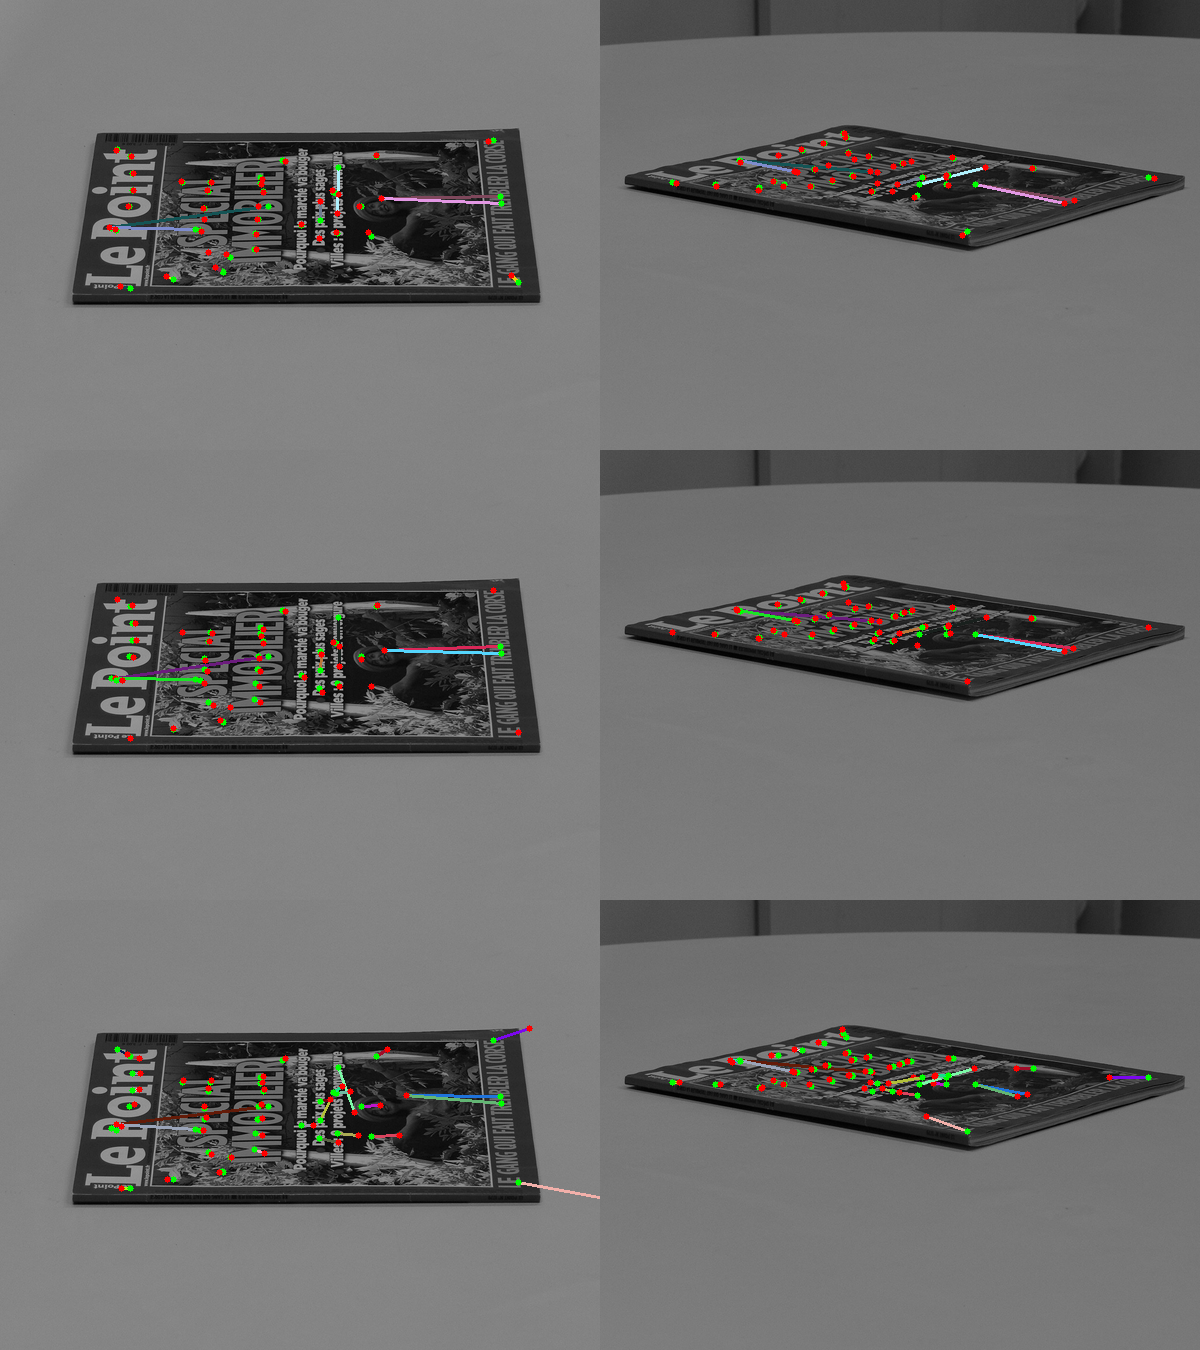
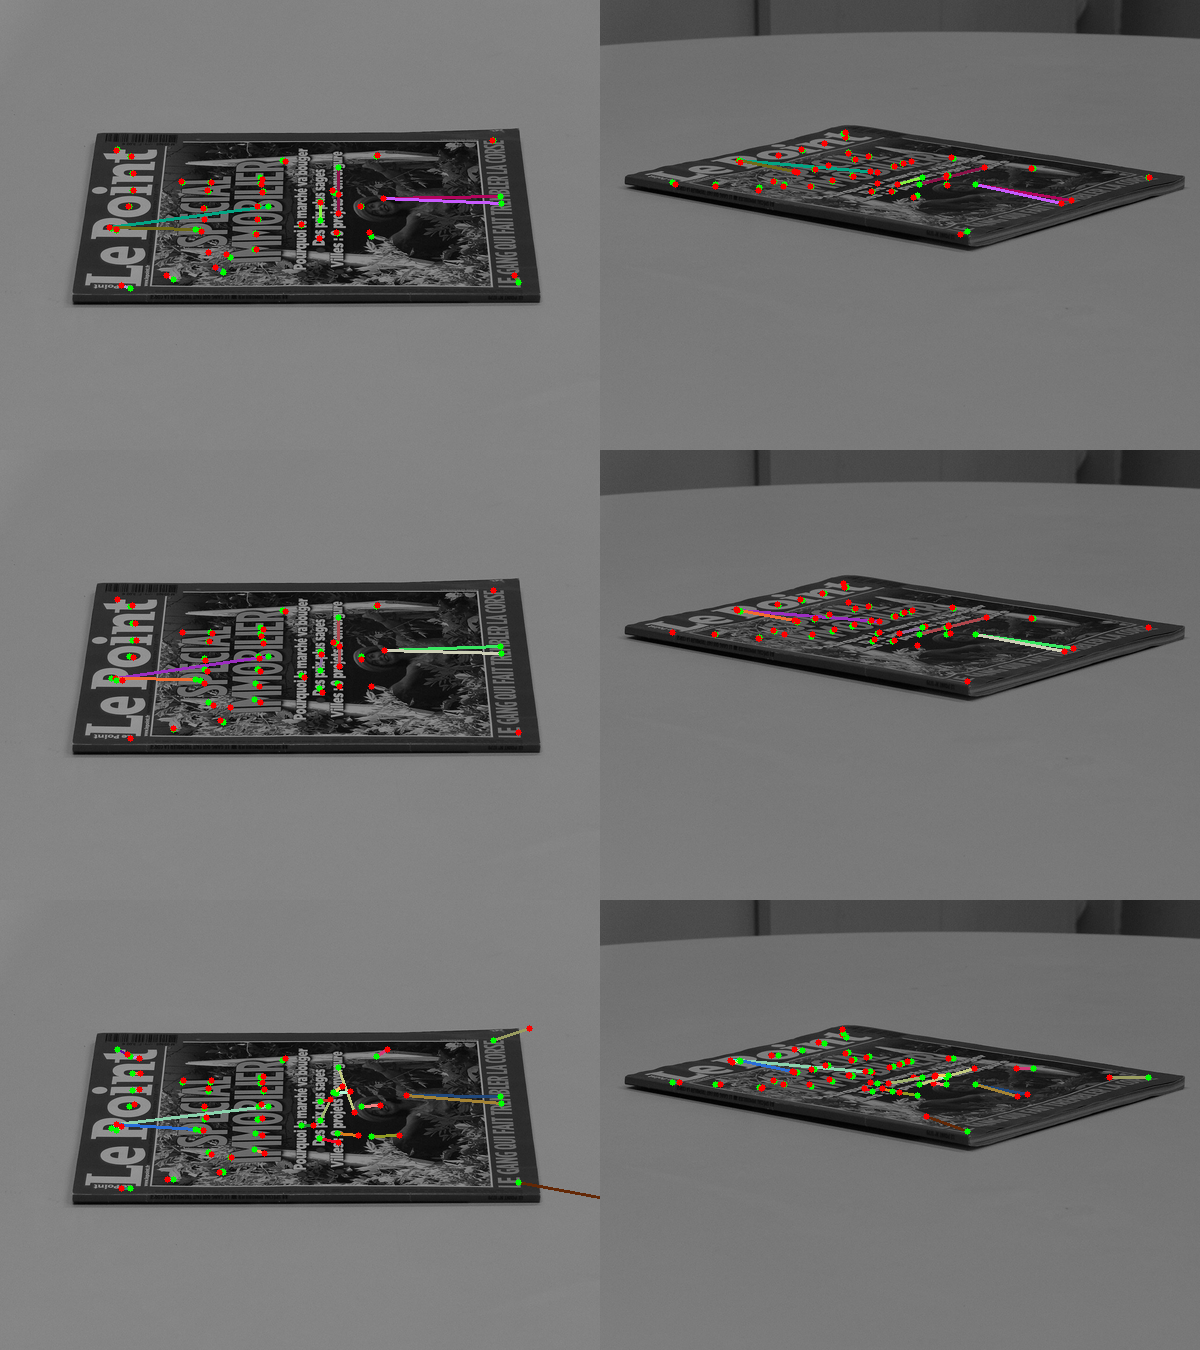
test

diff --git a/Usac/Ransac/Ransac.cpp b/Usac/Ransac/Ransac.cpp
@@ -179,20 +179,43 @@ void Ransac::run(cv::InputArray input_points) {
 
 
             Drawing drawing;
-            cv::Mat img1 = cv::imread ("../dataset/homography/LePoint3A.png");
-            cv::Mat img2 = cv::imread ("../dataset/homography/LePoint3B.png");
+            cv::Mat img1 = cv::imread ("../dataset/homography/adamA.png");
+            cv::Mat img2 = cv::imread ("../dataset/homography/adamB.png");
             cv::Mat pts1 = input_points.getMat().colRange (0, 2);
             cv::Mat pts2 = input_points.getMat().colRange (2, 4);
             cv::hconcat (pts1, cv::Mat_<float>::ones(points_size, 1), pts1);
             cv::hconcat (pts2, cv::Mat_<float>::ones(points_size, 1), pts2);
+            cv::Mat pt11 = pts1.row (sample[0]);
+            cv::Mat pt12 = pts1.row (sample[1]);
+            cv::Mat pt13 = pts1.row (sample[2]);
+            cv::Mat pt14 = pts1.row (sample[3]);
+            
+            cv::Mat pt21 = pts2.row (sample[0]);
+            cv::Mat pt22 = pts2.row (sample[1]);
+            cv::Mat pt23 = pts2.row (sample[2]);
+            cv::Mat pt24 = pts2.row (sample[3]);
+            
+            std::cout << norm (pt11 - pt21) << " = n\n";
+            std::cout << norm (pt12 - pt22) << " = n\n";
+            std::cout << norm (pt13 - pt23) << " = n\n";
+            std::cout << norm (pt14 - pt24) << " = n\n";            
+            std::cout << (norm (pt11 - pt21) + norm (pt12 - pt22) + norm (pt13 - pt23) + norm (pt14 - pt24)) << " sum \n";
+    
             std::cout << sample[0] << " " << sample[1] << " " << sample[2] << " " << sample[3] << "\n";
             std::cout << pts1.row(sample[0]) << "\n" << pts1.row(sample[1]) << "\n" << pts1.row(sample[2]) << "\n" <<pts1.row(sample[3]) << "\n";
+            std::cout << models[i]->returnDescriptor() << "\n";
             std::cout << "-----------------------------\n";
             drawing.drawErrors (img1, img2, pts1, pts2, models[i]->returnDescriptor());
-            cv::circle (img1, cv::Point_<float>(pts1.at<float>(sample[0], 0), pts1.at<float>(sample[0], 1)), 9, cv::Scalar(255, 255, 0), -1);
-            cv::circle (img1, cv::Point_<float>(pts1.at<float>(sample[1], 0), pts1.at<float>(sample[1], 1)), 9, cv::Scalar(255, 255, 0), -1);
-            cv::circle (img1, cv::Point_<float>(pts1.at<float>(sample[2], 0), pts1.at<float>(sample[2], 1)), 9, cv::Scalar(255, 255, 0), -1);
-            cv::circle (img1, cv::Point_<float>(pts1.at<float>(sample[3], 0), pts1.at<float>(sample[3], 1)), 9, cv::Scalar(255, 255, 0), -1);
+            cv::circle (img1, cv::Point_<float>(pts1.at<float>(sample[0], 0), pts1.at<float>(sample[0], 1)), 7, cv::Scalar(255, 255, 0), -1);
+            cv::circle (img1, cv::Point_<float>(pts1.at<float>(sample[1], 0), pts1.at<float>(sample[1], 1)), 7, cv::Scalar(255, 100, 0), -1);
+            cv::circle (img1, cv::Point_<float>(pts1.at<float>(sample[2], 0), pts1.at<float>(sample[2], 1)), 7, cv::Scalar(100, 255, 0), -1);
+            cv::circle (img1, cv::Point_<float>(pts1.at<float>(sample[3], 0), pts1.at<float>(sample[3], 1)), 7, cv::Scalar(100, 100, 0), -1);
+            
+            cv::circle (img2, cv::Point_<float>(pts2.at<float>(sample[0], 0), pts2.at<float>(sample[0], 1)), 7, cv::Scalar(255, 255, 0), -1);
+            cv::circle (img2, cv::Point_<float>(pts2.at<float>(sample[1], 0), pts2.at<float>(sample[1], 1)), 7, cv::Scalar(255, 100, 0), -1);
+            cv::circle (img2, cv::Point_<float>(pts2.at<float>(sample[2], 0), pts2.at<float>(sample[2], 1)), 7, cv::Scalar(100, 255, 0), -1);
+            cv::circle (img2, cv::Point_<float>(pts2.at<float>(sample[3], 0), pts2.at<float>(sample[3], 1)), 7, cv::Scalar(100, 100, 0), -1);
+            
             cv::hconcat (img1, img2, img1);
             cv::imshow ("homography", img1);
             cv::waitKey(0);
@@ -257,7 +280,7 @@ void Ransac::run(cv::InputArray input_points) {
                             getUpBoundIterations(iters, prosac_sampler->getLargestSampleSize(),
                                                  inliers, inlier_number);
                 } else {
-                    max_iters = termination_criteria->getUpBoundIterations (inlier_number);
+                    // max_iters = termination_criteria->getUpBoundIterations (inlier_number);
                 }
 
                 if (SprtLO) {
@@ -275,20 +298,43 @@ void Ransac::run(cv::InputArray input_points) {
     }
 
     // Drawing drawing;
-    // cv::Mat img1 = cv::imread ("../dataset/homography/LePoint3A.png");
-    // cv::Mat img2 = cv::imread ("../dataset/homography/LePoint3B.png");
+    // cv::Mat img1 = cv::imread ("../dataset/homography/adamA.png");
+    // cv::Mat img2 = cv::imread ("../dataset/homography/adamB.png");
     // cv::Mat pts1 = input_points.getMat().colRange (0, 2);
     // cv::Mat pts2 = input_points.getMat().colRange (2, 4);
+
+    // cv::Mat pt11 = pts1.row (best_sample[0]);
+    // cv::Mat pt12 = pts1.row (best_sample[1]);
+    // cv::Mat pt13 = pts1.row (best_sample[2]);
+    // cv::Mat pt14 = pts1.row (best_sample[3]);
+    
+    // cv::Mat pt21 = pts2.row (best_sample[0]);
+    // cv::Mat pt22 = pts2.row (best_sample[1]);
+    // cv::Mat pt23 = pts2.row (best_sample[2]);
+    // cv::Mat pt24 = pts2.row (best_sample[3]);
+    
+    // std::cout << norm (pt11 - pt21) << " = n\n";
+    // std::cout << norm (pt12 - pt22) << " = n\n";
+    // std::cout << norm (pt13 - pt23) << " = n\n";
+    // std::cout << norm (pt14 - pt24) << " = n\n";       
+    // std::cout << (norm (pt11 - pt21) + norm (pt12 - pt22) + norm (pt13 - pt23) + norm (pt14 - pt24)) << " sum \n";
     // cv::hconcat (pts1, cv::Mat_<float>::ones(points_size, 1), pts1);
     // cv::hconcat (pts2, cv::Mat_<float>::ones(points_size, 1), pts2);
     // std::cout << best_sample[0] << " " << best_sample[1] << " " << best_sample[2] << " " << best_sample[3] << "\n";
     // std::cout << pts1.row(best_sample[0]) << "\n" << pts1.row(best_sample[1]) << "\n" << pts1.row(best_sample[2]) << "\n" <<pts1.row(best_sample[3]) << "\n";
     // std::cout << "-----------------------------\n";
     // drawing.drawErrors (img1, img2, pts1, pts2, best_model->returnDescriptor());
-    // cv::circle (img1, cv::Point_<float>(pts1.at<float>(best_sample[0], 0), pts1.at<float>(best_sample[0], 1)), 9, cv::Scalar(255, 255, 0), -1);
-    // cv::circle (img1, cv::Point_<float>(pts1.at<float>(best_sample[1], 0), pts1.at<float>(best_sample[1], 1)), 9, cv::Scalar(255, 255, 0), -1);
-    // cv::circle (img1, cv::Point_<float>(pts1.at<float>(best_sample[2], 0), pts1.at<float>(best_sample[2], 1)), 9, cv::Scalar(255, 255, 0), -1);
-    // cv::circle (img1, cv::Point_<float>(pts1.at<float>(best_sample[3], 0), pts1.at<float>(best_sample[3], 1)), 9, cv::Scalar(255, 255, 0), -1);
+    
+    // cv::circle (img1, cv::Point_<float>(pts1.at<float>(best_sample[0], 0), pts1.at<float>(best_sample[0], 1)), 7, cv::Scalar(255, 255, 0), -1);
+    // cv::circle (img1, cv::Point_<float>(pts1.at<float>(best_sample[1], 0), pts1.at<float>(best_sample[1], 1)), 7, cv::Scalar(255, 100, 0), -1);
+    // cv::circle (img1, cv::Point_<float>(pts1.at<float>(best_sample[2], 0), pts1.at<float>(best_sample[2], 1)), 7, cv::Scalar(100, 255, 0), -1);
+    // cv::circle (img1, cv::Point_<float>(pts1.at<float>(best_sample[3], 0), pts1.at<float>(best_sample[3], 1)), 7, cv::Scalar(100, 100, 0), -1);
+
+    // cv::circle (img2, cv::Point_<float>(pts2.at<float>(best_sample[0], 0), pts2.at<float>(best_sample[0], 1)), 7, cv::Scalar(255, 255, 0), -1);
+    // cv::circle (img2, cv::Point_<float>(pts2.at<float>(best_sample[1], 0), pts2.at<float>(best_sample[1], 1)), 7, cv::Scalar(255, 100, 0), -1);
+    // cv::circle (img2, cv::Point_<float>(pts2.at<float>(best_sample[2], 0), pts2.at<float>(best_sample[2], 1)), 7, cv::Scalar(100, 255, 0), -1);
+    // cv::circle (img2, cv::Point_<float>(pts2.at<float>(best_sample[3], 0), pts2.at<float>(best_sample[3], 1)), 7, cv::Scalar(100, 100, 0), -1);
+        
     // cv::hconcat (img1, img2, img1);
     // cv::imshow ("homography", img1);
     // cv::waitKey(0);

diff --git a/matlab/DLT.m b/matlab/DLT.m
@@ -12,7 +12,7 @@ function H=DLT(pts1,pts2)
         A(2*i-1,:)=[-x1,-y1,-1.0,0,0,0,x2*x1,x2*y1,x2];
         A(2*i,:)=[0,0,0,-x1,-y1,-1.0,y2*x1,y2*y1,y2];
     end
-    
+
     % lambda1 >= lambda2 >= ... >= lambdaN
     [~,~,V]=svd(A);
     H=reshape (V(:,9), 3, 3)';
@@ -20,8 +20,28 @@ function H=DLT(pts1,pts2)
     
     % lambda1 <= lambda2 <= ... <= lambdaN (eigen values)
     [VV, ~] = eig (A'*A);
-    HH = reshape (-VV(:,1), 3, 3)';
-    % HH = HH / HH (3,3);
+    H2 = reshape (-VV(:,1), 3, 3)';
+    % H2 = H2 / H2 (3,3);
     
     norm (H - HH)
+
+
+    A = zeros (2*NUMP, 8);
+    b = zeros (2*NUMP, 1);
+    for i=1:NUMP
+        x1=pts1(i,1);
+        y1=pts1(i,2);
+
+        x2=pts2(i,1);
+        y2=pts2(i,2);
+
+        A(2*i-1,:) = [x1,y1,1.0,0,0,0,-x2*x1,-x2*y1];
+        A(2*i,:)   = [0,0,0,x1,y1,1.0,-y2*x1,-y2*y1];
+        b(2*i-1) = x2;
+        b(2*i-1) = y2; 
+    end
+
+    H3 = A \ b;
+
+
 end

diff --git a/Tests/testHomographyFitting.cpp b/Tests/testHomographyFitting.cpp
@@ -25,7 +25,7 @@ void storeResults ();
 int getGTNumInliers (const std::string &filename, float threshold);
 
 void Tests::testHomographyFitting() {
-    std::string img_name = "LePoint3";
+    std::string img_name = "adam";
     cv::Mat points, points1, points2;
     read_points (points1, points2, "../dataset/homography/"+img_name+"_pts.txt");
 
